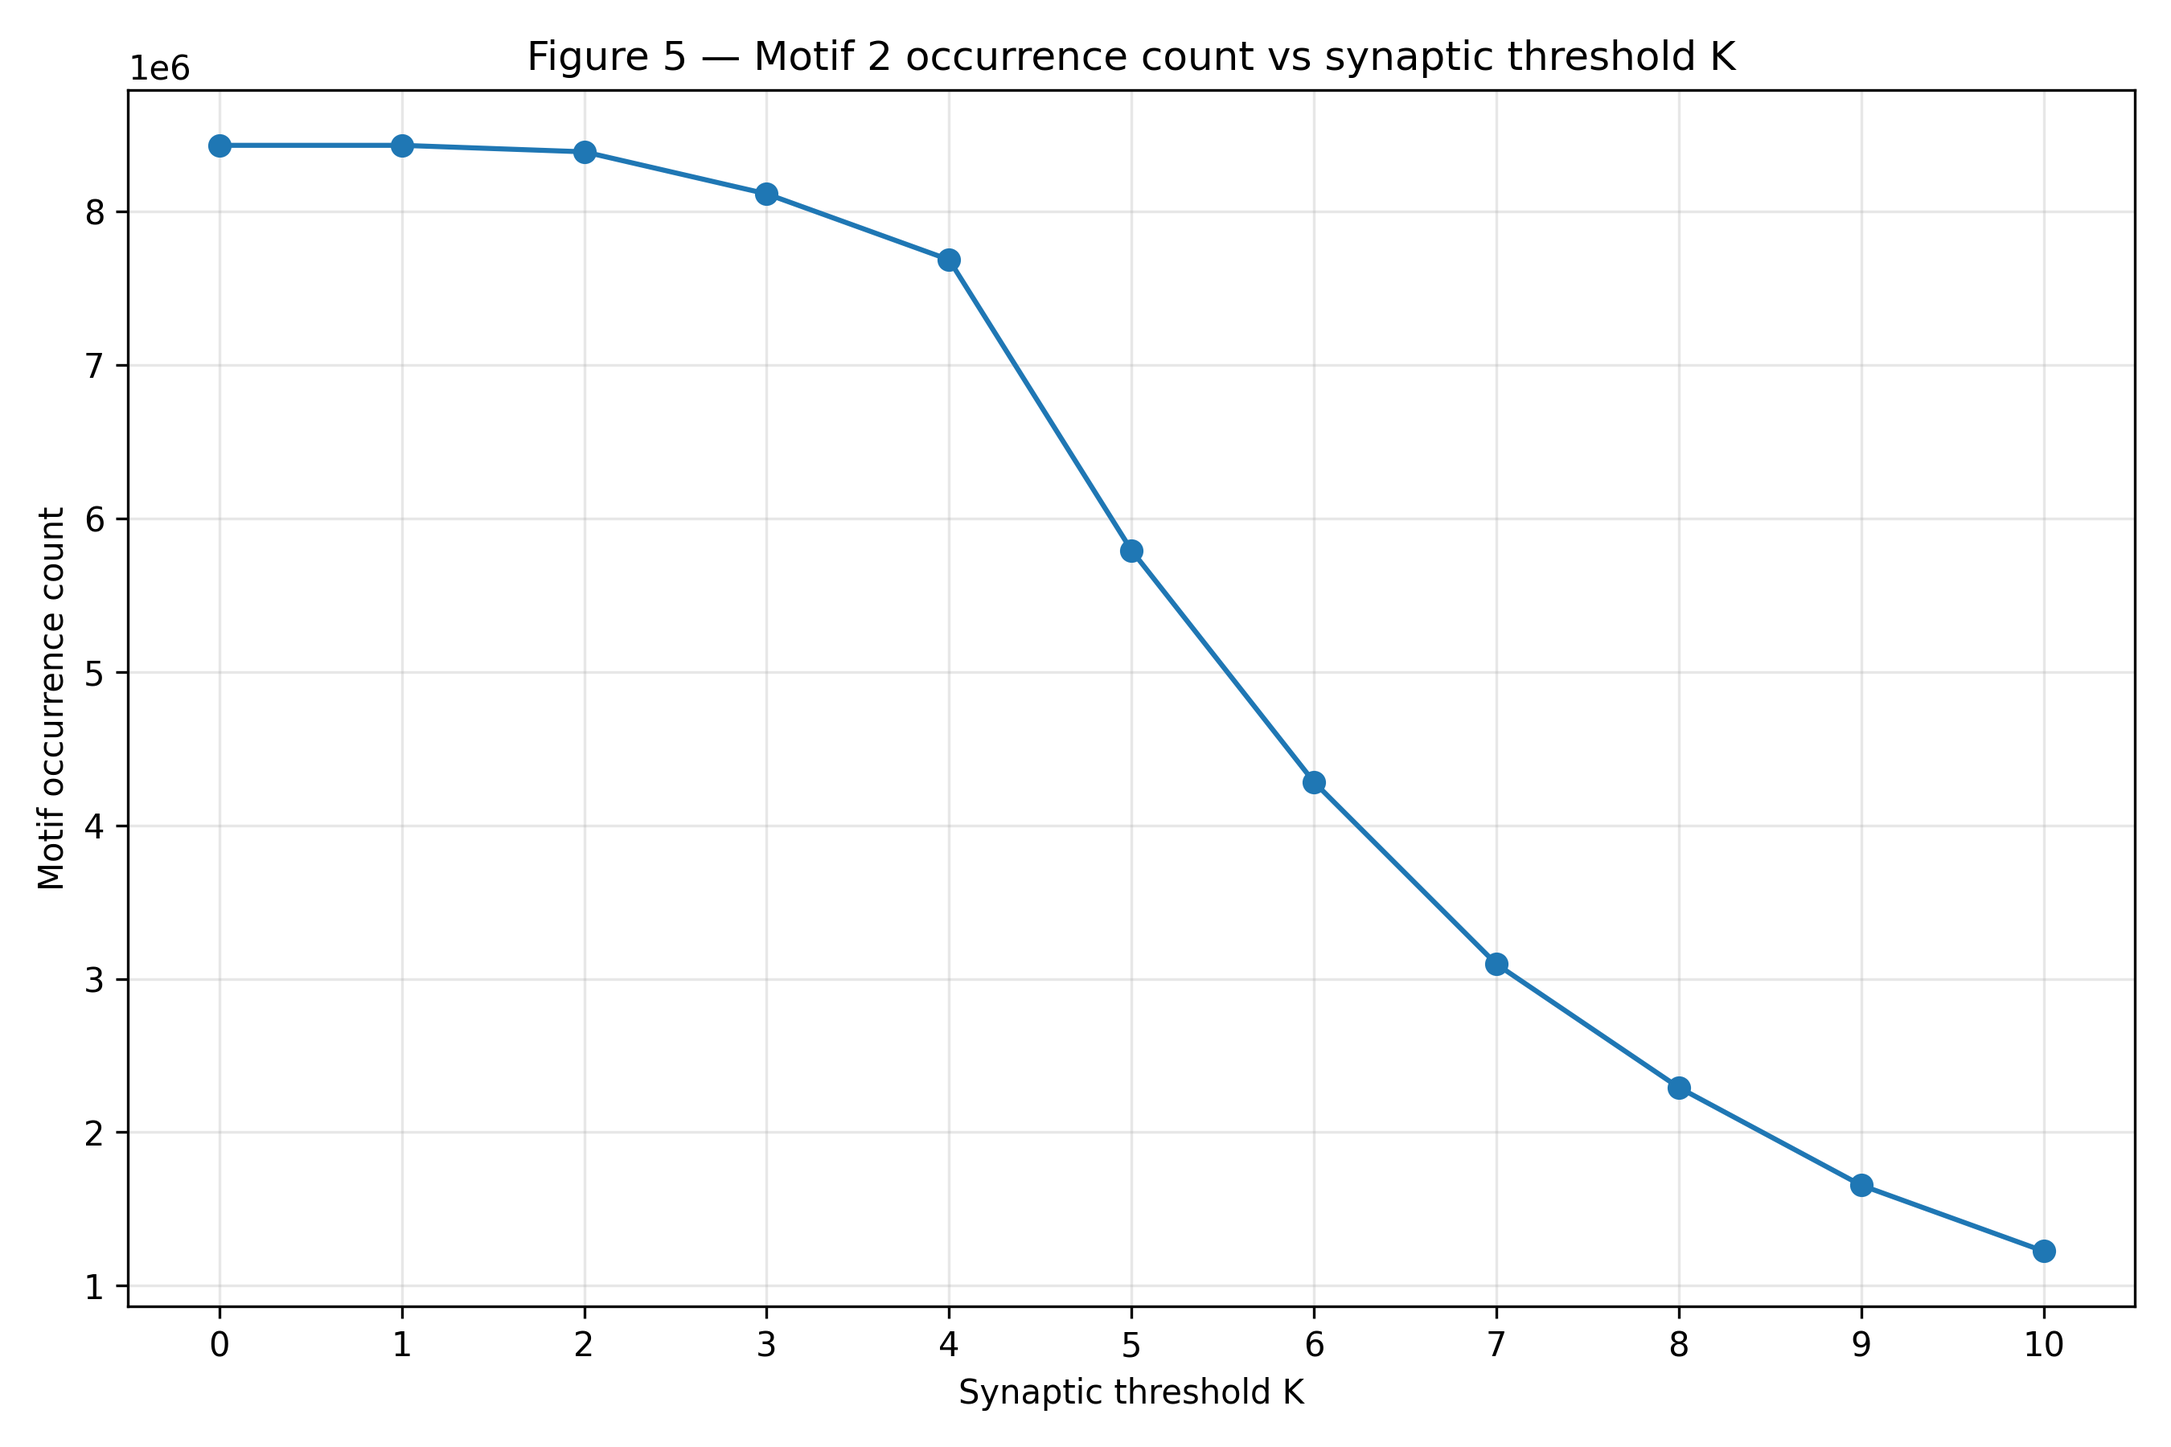
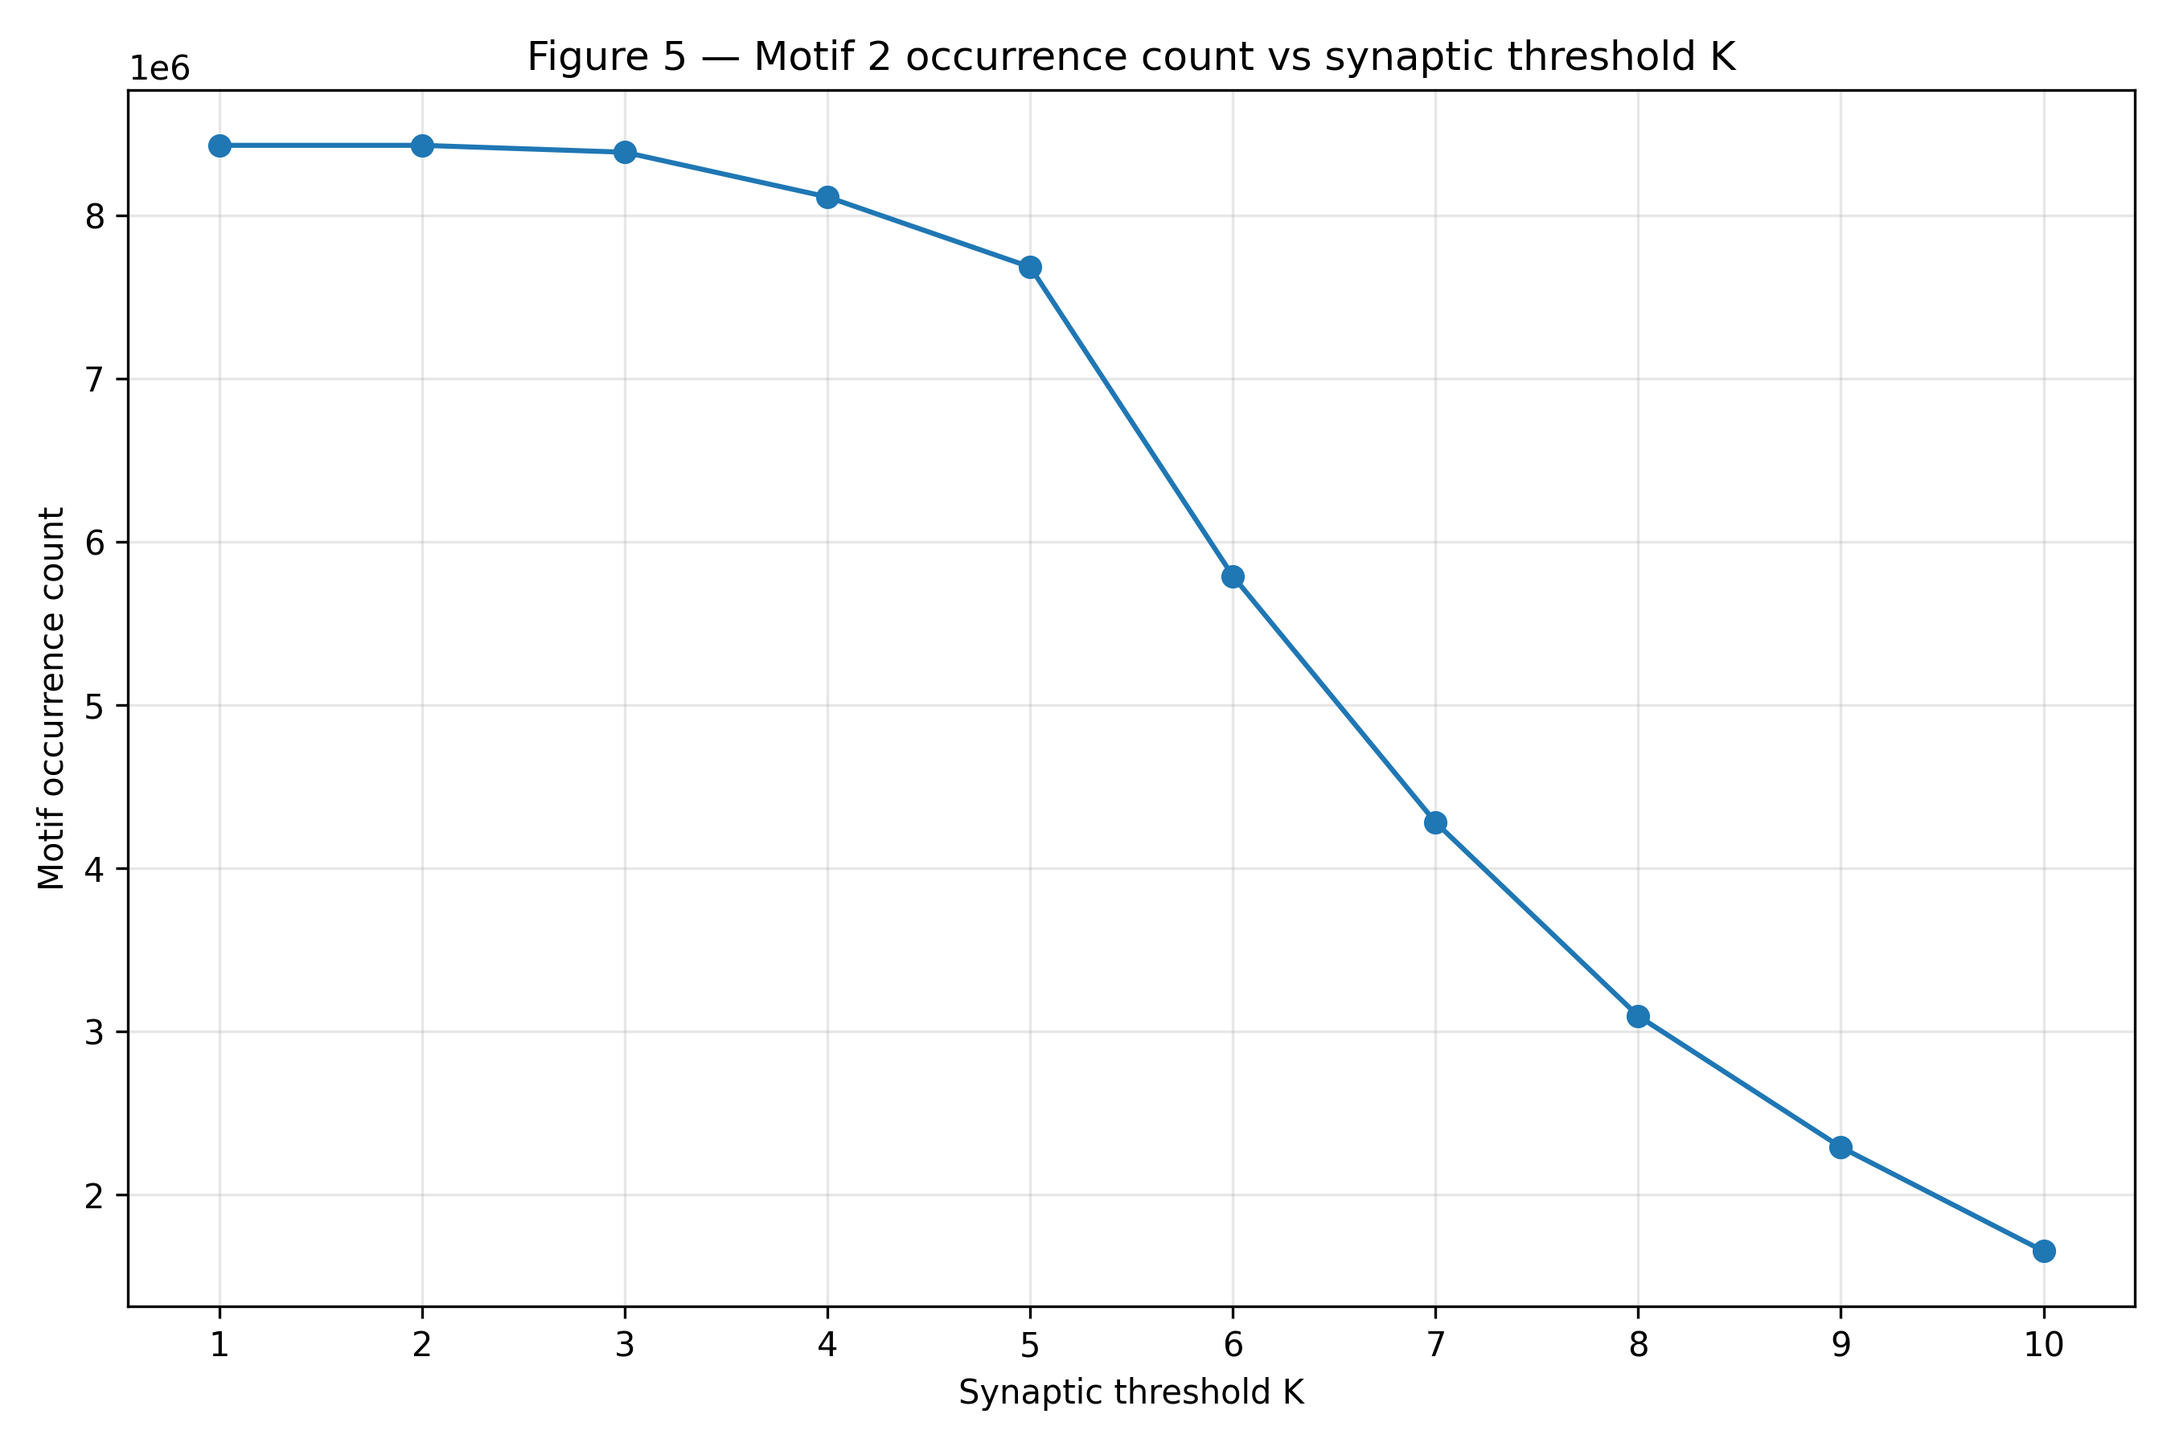
Updated syn_count syntax with greater equal (>=); Modified Main computation/visualization pipeline to include k sensitivity parameter to syn_count

diff --git a/computation/compute.py b/computation/compute.py
@@ -41,7 +41,6 @@ def worker_process_start_node(start_node_key):
     This function runs inside a worker process.
     It performs the DFS starting from a specific node.
     """
-    # Access global read-only data
     neighbor_map = G_NEIGHBOR_MAP
     groups = G_GROUPS
     nh = G_NH
@@ -49,20 +48,16 @@ def worker_process_start_node(start_node_key):
     
     local_results = []
     
-    # Initial setup for this start node
     n_start = len(groups[start_node_key])
     if n_start == 0: return []
     
     initial_counts = np.ones(n_start, dtype=np.float64)
     
-    # Stack for Iterative DFS 
-    # Stack items: (current_key, path_keys, current_counts, levels_covered_set)
     stack = [ (start_node_key, [start_node_key], initial_counts, {start_node_key[1]}) ]
     
     while stack:
         curr_key, path, counts, covered = stack.pop()
         
-        # 1. Check Motif Completion
         if covered == target_levels:
             total = np.sum(counts)
             if total > 0:
@@ -70,30 +65,24 @@ def worker_process_start_node(start_node_key):
                     'motif_count': int(total), 
                     'chain_length': len(path),
                     'structure_str': " -> ".join([f"{c}L{l}" for c,l in path]),
-                    'path_tuple': tuple(path) # Helper for dict creation later
+                    'path_tuple': tuple(path)
                 }
                 local_results.append(row)
         
-        # 2. Explore Neighbors
-        # neighbors is a list of (next_key, submatrix)
         neighbors = neighbor_map.get(curr_key, [])
         
         for next_key, submat in neighbors:
             next_lev = next_key[1]
             
-            # --- Cycle Handling ---
             if next_key in path:
-                # Potential cycle closure
                 cycle_path = path + [next_key]
                 if check_nh_constraint(cycle_path, nh):
-                    # Matmul
                     next_counts = counts @ submat 
                     total = np.sum(next_counts)
                     
                     if total > 0:
                         new_covered = covered | {next_lev}
                         if new_covered == target_levels:
-                            # Found cycle motif
                             row = {
                                 'motif_count': int(total), 
                                 'chain_length': len(cycle_path),
@@ -101,31 +90,24 @@ def worker_process_start_node(start_node_key):
                                 'path_tuple': tuple(cycle_path)
                             }
                             local_results.append(row)
-                continue # Don't recurse into closed cycle
+                continue 
 
-            # --- New Node Step ---
             new_path = path + [next_key]
             
-            # NH Constraint
             if not check_nh_constraint(new_path, nh):
                 continue
             
-            # Math: Flow Calculation
-            # submat can be sparse (csr) or dense (numpy array). @ handles both.
             next_counts = counts @ submat
             
-            # Pruning: Dead flow
             if np.sum(next_counts) == 0:
                 continue
                 
             new_covered = covered | {next_lev}
-            
-            # Push to stack
             stack.append( (next_key, new_path, next_counts, new_covered) )
             
     return local_results
 
-def compute_metagraph_topology(NL_WINDOW, out_folder, nh=None, max_jump=1, no_self_loops=False,
+def compute_metagraph_topology(NL_WINDOW, out_folder, nh=None, max_jump=1, no_self_loops=False, k=1,
                                conn_file="../data/connections.csv",
                                levels_file="../data/COORDINATE_XY_with_levels_tree.csv",
                                class_file="../data/classification.csv",
@@ -142,10 +124,9 @@ def compute_metagraph_topology(NL_WINDOW, out_folder, nh=None, max_jump=1, no_se
     start_time = time.time()
 
     print(f"--- Processing Window: {NL_WINDOW} ---")
-    print(f"[PARAMS] NH={nh}, MaxJump={max_jump}, NoSelfLoops={no_self_loops}, Cores={n_cores}")
+    print(f"[PARAMS] NH={nh}, MaxJump={max_jump}, NoSelfLoops={no_self_loops}, Cores={n_cores}, k={k}")
     print(f"[MEMORY] Using Hybrid Dense Matrices (Threshold={DENSE_THRESHOLD} elements)")
 
-    # --- 1. Load Data ---
     print(f"[INFO] Loading CSV files...")
     try:
         df_conn = pd.read_csv(conn_file)
@@ -155,7 +136,6 @@ def compute_metagraph_topology(NL_WINDOW, out_folder, nh=None, max_jump=1, no_se
         print(f"[ERROR] {e}")
         sys.exit(1)
 
-    # --- 2. Mappings ---
     all_neurons = sorted(list(set(df_levels.root_id) | set(df_class.root_id)))
     neuron_to_idx = {nid: i for i, nid in enumerate(all_neurons)}
     n_total = len(all_neurons)
@@ -177,16 +157,14 @@ def compute_metagraph_topology(NL_WINDOW, out_folder, nh=None, max_jump=1, no_se
     group_keys = sorted(list(groups.keys()))
     print(f"[INFO] Found {len(group_keys)} valid (Class, Level) groups.")
 
-    # --- 3. Build Adjacency ---
-    print(f"[INFO] Building adjacency matrix...")
-    df_edges = df_conn[df_conn['syn_count'] > 0][['pre_root_id', 'post_root_id']]
+    print(f"[INFO] Building adjacency matrix with k={k}...")
+    df_edges = df_conn[df_conn['syn_count'] >= k][['pre_root_id', 'post_root_id']]
     df_edges = df_edges.drop_duplicates()
     s_pre = df_edges['pre_root_id'].map(neuron_to_idx).dropna().astype(int)
     s_post = df_edges['post_root_id'].map(neuron_to_idx).dropna().astype(int)
     data = np.ones(len(s_pre)) 
     adj_matrix = sparse.csr_matrix((data, (s_pre, s_post)), shape=(n_total, n_total))
     
-    # --- 4. Hybrid Pre-computation ---
     print(f"[INFO] Pre-computing Hybrid Connectivity Graph...")
     neighbor_map = defaultdict(list)
     
@@ -201,7 +179,6 @@ def compute_metagraph_topology(NL_WINDOW, out_folder, nh=None, max_jump=1, no_se
         for dst_key in group_keys:
             dst_lev = dst_key[1]
             
-            # Topology filters
             if abs(src_lev - dst_lev) > max_jump: continue
             if no_self_loops and src_key == dst_key: continue
             
@@ -209,15 +186,11 @@ def compute_metagraph_topology(NL_WINDOW, out_folder, nh=None, max_jump=1, no_se
             submat = row_submat[:, dst_indices]
             
             if submat.nnz > 0:
-                # --- MEMORY VS SPEED TRADEOFF HERE ---
                 rows, cols = submat.shape
-                # If matrix is small, densify it for faster numpy multiplication
                 if (rows * cols) < DENSE_THRESHOLD:
-                    # Convert to dense numpy array
                     final_mat = submat.toarray()
                     dense_count += 1
                 else:
-                    # Keep as sparse CSR
                     final_mat = submat
                 
                 neighbor_map[src_key].append((dst_key, final_mat))
@@ -226,13 +199,11 @@ def compute_metagraph_topology(NL_WINDOW, out_folder, nh=None, max_jump=1, no_se
     G_NEIGHBOR_MAP = neighbor_map
     print(f"[INFO] Graph built. {precalc_count} edges. {dense_count} converted to dense for speed.")
 
-    # --- 5. Parallel Execution ---
-    start_nodes = [k for k in group_keys if k[1] == MIN_LEVEL]
+    start_nodes = [key for key in group_keys if key[1] == MIN_LEVEL]
     print(f"[INFO] Starting Search on {len(start_nodes)} start groups using {n_cores} cores...")
 
     final_results = []
     
-    # We use chunksize=1 to keep memory balanced if some tasks are huge
     with multiprocessing.Pool(processes=n_cores) as pool:
         for res_batch in pool.imap_unordered(worker_process_start_node, start_nodes, chunksize=1):
             if res_batch:
@@ -243,13 +214,12 @@ def compute_metagraph_topology(NL_WINDOW, out_folder, nh=None, max_jump=1, no_se
 
     print("\n[INFO] Search finished. Aggregating results...")
 
-    # --- 6. Save Results ---
     df_final = pd.DataFrame(final_results)
     
     if not df_final.empty:
         expanded_rows = []
         for r in final_results:
-            row_data = {k: v for k,v in r.items() if k != 'path_tuple'}
+            row_data = {key: v for key,v in r.items() if key != 'path_tuple'}
             path = r['path_tuple']
             for idx, (cls, lev) in enumerate(path):
                 row_data[f'cls_{idx}'] = cls
@@ -263,7 +233,7 @@ def compute_metagraph_topology(NL_WINDOW, out_folder, nh=None, max_jump=1, no_se
     sl_str = "_noSelfLoop" if no_self_loops else ""
     jump_str = f"_jump{max_jump}"
     
-    out_name = f"motifs_nl{'-'.join(map(str, NL_WINDOW))}{nh_str}{jump_str}{sl_str}.csv"
+    out_name = f"motifs_nl{'-'.join(map(str, NL_WINDOW))}{nh_str}{jump_str}{sl_str}_k{k}.csv"
     out_path = os.path.join(out_folder, out_name)
     
     df_final.to_csv(out_path, index=False)
@@ -285,6 +255,7 @@ if __name__ == "__main__":
     parser.add_argument("--nh", type=int, default=None, help="Max distinct classes per level")
     parser.add_argument("--max_jump", type=int, default=1, help="Maximum level distance")
     parser.add_argument("--no_self_loops", action="store_true", help="Prevent ClassA->ClassA")
+    parser.add_argument("--k", type=int, default=1, help="Minimum syn_count threshold")
     parser.add_argument("--cores", type=int, default=max(1, multiprocessing.cpu_count() - 1), 
                         help="Number of CPU cores to use")
     
@@ -296,7 +267,7 @@ if __name__ == "__main__":
         print("Error: Window format must be integers separated by hyphens")
         sys.exit(1)
 
-    out_folder = os.path.join(args.outdir, args.window)
+    out_folder = os.path.join(args.outdir, f"{args.window}_k{args.k}")
     
     compute_metagraph_topology(
         NL_WINDOW, 
@@ -304,5 +275,6 @@ if __name__ == "__main__":
         nh=args.nh, 
         max_jump=args.max_jump,
         no_self_loops=args.no_self_loops,
+        k=args.k,
         n_cores=args.cores
     )

diff --git a/visualization/visualize.py b/visualization/visualize.py
@@ -23,12 +23,12 @@ CLASS_COLOR_MAP = {
     'DEFAULT': '#7f7f7f'
 }
 
-def visualize_motifs(WINDOW_STR, NH_VALUE, MAX_JUMP, TOP_N, BASE_IN_DIR, BASE_OUT_DIR):
+def visualize_motifs(WINDOW_STR, NH_VALUE, MAX_JUMP, K_VALUE, TOP_N, BASE_IN_DIR, BASE_OUT_DIR):
     """
     Load motif results and visualize Top N.
     """
     # --- 1. File Search ---
-    INPUT_DIR = os.path.join(BASE_IN_DIR, WINDOW_STR)
+    INPUT_DIR = os.path.join(BASE_IN_DIR, f"{WINDOW_STR}_k{K_VALUE}")
     found_file = None
     base_name = f"motifs_nl{WINDOW_STR}"
     
@@ -40,6 +40,8 @@ def visualize_motifs(WINDOW_STR, NH_VALUE, MAX_JUMP, TOP_N, BASE_IN_DIR, BASE_OU
             
         if MAX_JUMP:
             candidates = [f for f in candidates if f"_jump{MAX_JUMP}" in f]
+
+        candidates = [f for f in candidates if f"_k{K_VALUE}.csv" in f]
         
         if candidates:
             candidates.sort(reverse=True)
@@ -49,7 +51,7 @@ def visualize_motifs(WINDOW_STR, NH_VALUE, MAX_JUMP, TOP_N, BASE_IN_DIR, BASE_OU
         print(f"[ERROR] No compatible CSV file found in {INPUT_DIR}")
         return
         
-    OUTPUT_DIR = os.path.join(BASE_OUT_DIR, WINDOW_STR)
+    OUTPUT_DIR = os.path.join(BASE_OUT_DIR, f"{WINDOW_STR}_k{K_VALUE}")
     subfolder_name = f"nh{NH_VALUE if NH_VALUE else 'All'}_nj{MAX_JUMP if MAX_JUMP else '1'}"
     OUTPUT_DIR = os.path.join(OUTPUT_DIR, subfolder_name)
 
@@ -212,7 +214,7 @@ def visualize_motifs(WINDOW_STR, NH_VALUE, MAX_JUMP, TOP_N, BASE_IN_DIR, BASE_OU
         nj_val = MAX_JUMP if MAX_JUMP else "1"
         
         title_text = (f"Rank #{rank} | Count: {count:,}\n"
-                      f"nl: [{nl_val}] | nh: {nh_val} | nj: {nj_val}")
+                      f"nl: [{nl_val}] | nh: {nh_val} | nj: {nj_val} | k: {K_VALUE}")
         
         plt.title(title_text, fontsize=14, fontweight='bold', pad=20)
         
@@ -236,6 +238,7 @@ if __name__ == "__main__":
     parser.add_argument("--window", required=True, help="E.g.: 1-2-3")
     parser.add_argument("--nh", type=int, default=None)
     parser.add_argument("--max_jump", type=int, default=None)
+    parser.add_argument("--k", type=int, default=1, help="Minimum syn_count threshold") # AGGIUNTO
     parser.add_argument("--top_n", type=int, default=3)
     parser.add_argument("--indir", default="metagraph_csv")
     parser.add_argument("--outdir", default="metagraph_png")
@@ -246,6 +249,7 @@ if __name__ == "__main__":
         WINDOW_STR=args.window, 
         NH_VALUE=args.nh, 
         MAX_JUMP=args.max_jump,
+        K_VALUE=args.k,
         TOP_N=args.top_n, 
         BASE_IN_DIR=args.indir, 
         BASE_OUT_DIR=args.outdir

diff --git a/validation/k_sensitivity/fig5_motif2.py b/validation/k_sensitivity/fig5_motif2.py
@@ -124,12 +124,9 @@ def build_adjacency(df_conn, neuron_to_idx, threshold):
     """
     Keep exactly the same binary-edge semantics as compute.py, but make
     the synaptic threshold configurable.
-
-        current code: syn_count > 0
-        this script : syn_count > threshold
     """
     df_edges = df_conn[
-        df_conn["syn_count"] > threshold
+        df_conn["syn_count"] >= threshold
     ][["pre_root_id", "post_root_id"]].drop_duplicates()
 
     s_pre = df_edges["pre_root_id"].map(neuron_to_idx)
@@ -205,8 +202,8 @@ def count_occurrences(motif, groups, adjacency):
 def main():
     parser = argparse.ArgumentParser(
         description=(
-            "Compute Figure 5 Motif 2 count for K=0..10, "
-            "where an edge is retained when syn_count > K."
+            "Compute Figure 5 Motif 2 count for K=1..10, "
+            "where an edge is retained when syn_count >= K."
         )
     )
 
@@ -233,8 +230,8 @@ def main():
     parser.add_argument(
         "--k-min",
         type=int,
-        default=0,
-        help="Minimum K threshold (default: 0)",
+        default=1,
+        help="Minimum K threshold (default: 1)",
     )
     parser.add_argument(
         "--k-max",
@@ -245,7 +242,7 @@ def main():
 
     args = parser.parse_args()
 
-    if args.k_min < 0 or args.k_max < args.k_min:
+    if args.k_min < 1 or args.k_max < args.k_min:
         raise ValueError("Invalid K range.")
 
     outdir = Path(args.outdir)
@@ -275,8 +272,8 @@ def main():
     )
 
     print("\nImportant:")
-    print("  K=0 means syn_count > 0, i.e. the current implementation.")
-    print("  K=5 means syn_count > 5.")
+    print("  K=1 means syn_count >= 1, i.e. the current implementation.")
+    print("  K=5 means syn_count >= 5.")
     print("  Levels and classification are NOT recomputed for each K.")
     print("  Only the adjacency/connectivity threshold changes.")
 
@@ -302,7 +299,7 @@ def main():
 
         results.append({
             "K": k,
-            "condition": f"syn_count > {k}",
+            "condition": f"syn_count >= {k}",
             "edges": adjacency.nnz,
             "motif": FIG_5_MOTIF_2["name"],
             "count": count,
@@ -310,7 +307,7 @@ def main():
 
         print(
             f"{k:>4} "
-            f"{'syn_count > ' + str(k):>18} "
+            f"{'syn_count >= ' + str(k):>18} "
             f"{adjacency.nnz:>15,} "
             f"{count:>20,}"
         )
